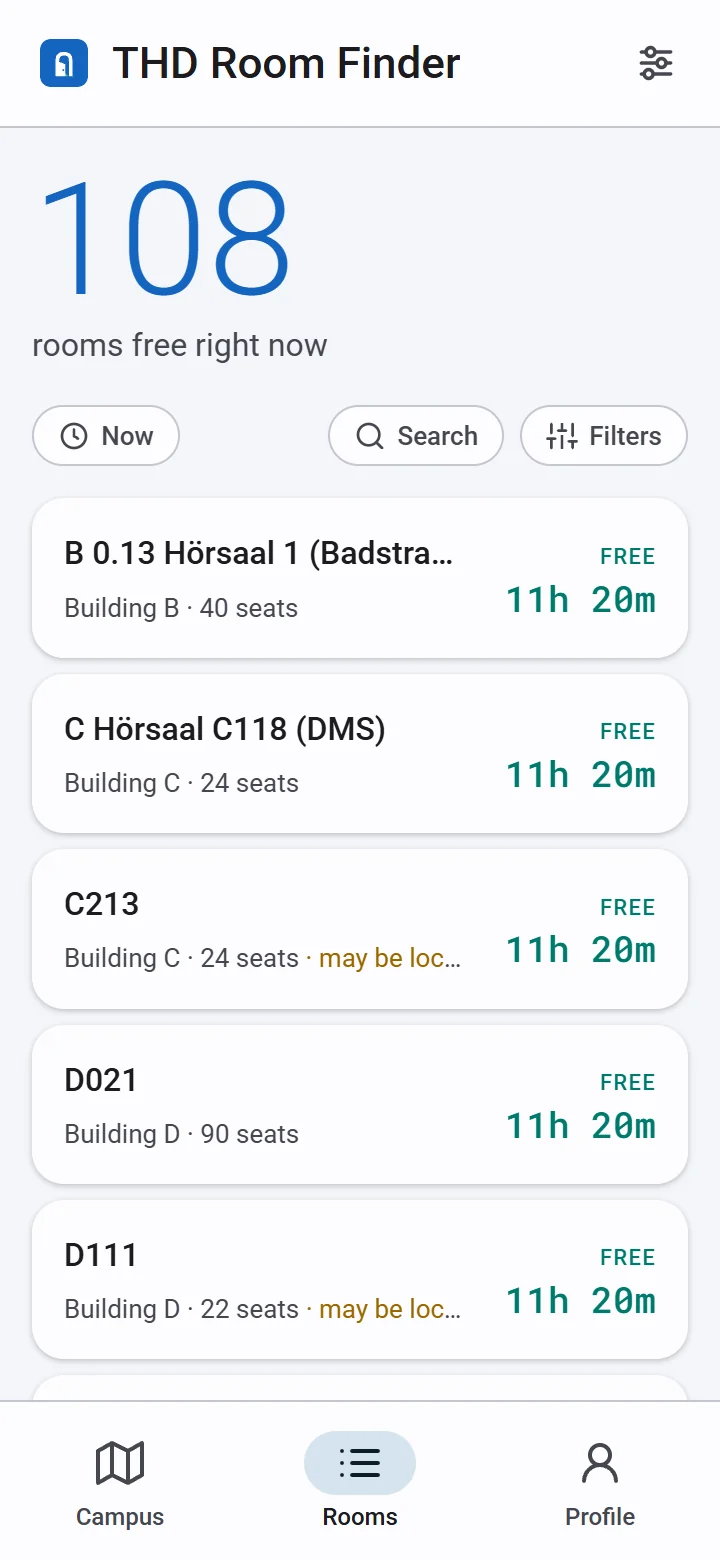
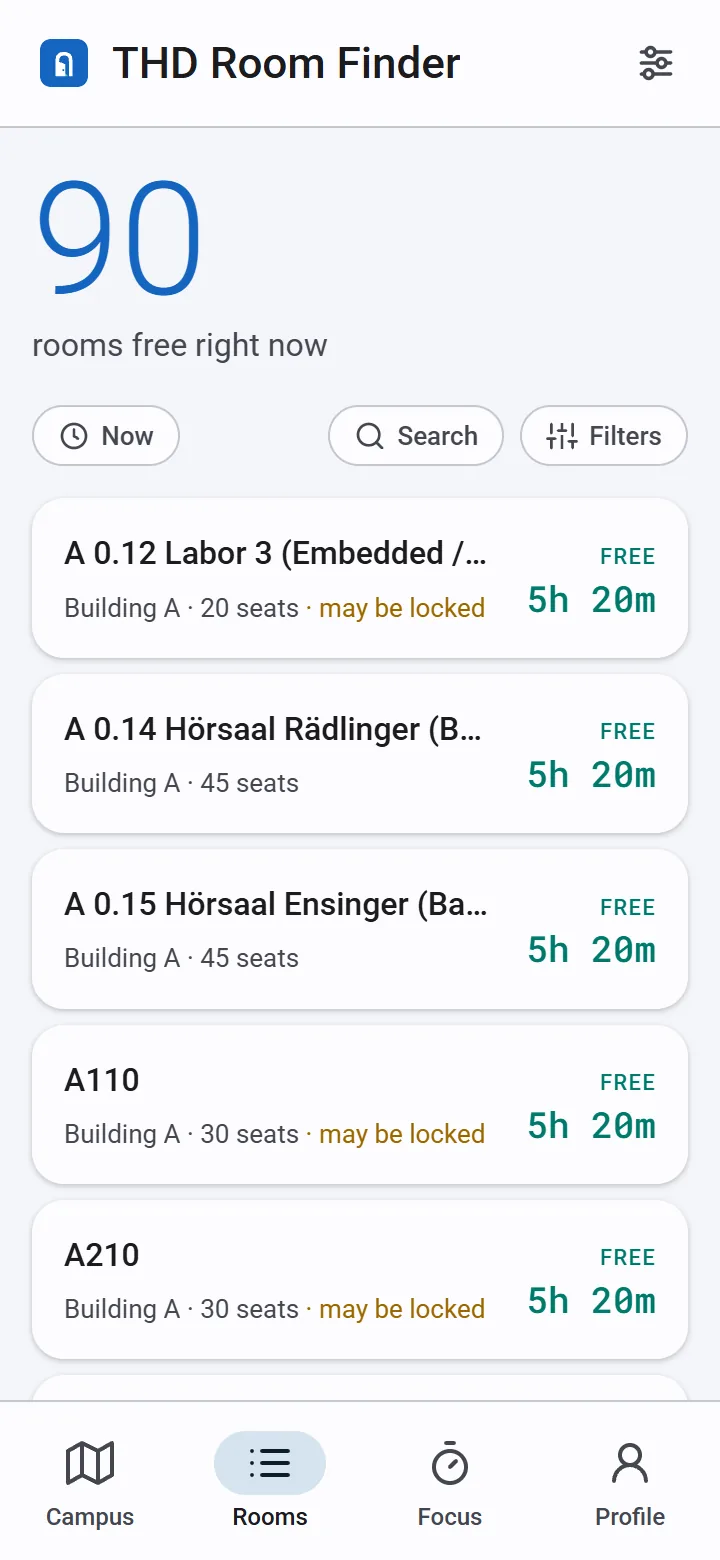
docs(website): recapture app screens with the four-tab bar
- Every phone screen and the desktop map still showed the old Campus,
  Rooms, Profile bar from before v2.6. All 20 are recaptured from the
  current app (light and dark, 360x780 at 2x, desktop 1600x1000) with
  the same story: C211, Max from AIN 7 studying there, Lena's profile,
  the THD AI talk in A008.
- The clock is now a Thursday at 15:40, when C211 is free after its
  last lab; alt texts follow the new numbers.

diff --git a/website/index.html b/website/index.html
@@ -328,7 +328,7 @@
       </div></div>
       <div class="steps" data-steps="guest">
         <div class="step">
-          <div class="phone"><picture><source srcset="assets/guest-rooms-dark.webp" media="(prefers-color-scheme: dark)"><img src="assets/guest-rooms-light.webp" alt="The room list on a phone: 108 rooms free right now, C211 at the top, free for 11 hours 20 minutes" data-de-alt="Die Raumliste auf dem Handy: 108 Räume gerade frei, oben C211, frei für 11 Stunden 20 Minuten" loading="lazy" width="720" height="1560"></picture></div>
+          <div class="phone"><picture><source srcset="assets/guest-rooms-dark.webp" media="(prefers-color-scheme: dark)"><img src="assets/guest-rooms-light.webp" alt="The room list on a phone: 90 rooms free right now, the top ones free for 5 hours 20 minutes" data-de-alt="Die Raumliste auf dem Handy: 90 Räume gerade frei, die obersten frei für 5 Stunden 20 Minuten" loading="lazy" width="720" height="1560"></picture></div>
           <div>
             <span class="num">1</span>
             <h3 data-de="Finde einen Raum">Find a room</h3>
@@ -336,7 +336,7 @@
           </div>
         </div>
         <div class="step">
-          <div class="phone"><picture><source srcset="assets/guest-focus-dark.webp" media="(prefers-color-scheme: dark)"><img src="assets/guest-focus-light.webp" alt="A focus session on this device in C211: 11:58 left in block 1 of 6, and a note that someone else is already studying there" data-de-alt="Eine Fokus-Session auf diesem Gerät in C211: noch 11:58 in Block 1 von 6, dazu der Hinweis, dass dort schon jemand lernt" loading="lazy" width="720" height="1560"></picture></div>
+          <div class="phone"><picture><source srcset="assets/guest-focus-dark.webp" media="(prefers-color-scheme: dark)"><img src="assets/guest-focus-light.webp" alt="A focus session on this device in C211: 11:57 left in block 1 of 6, and a note that someone else is already studying there" data-de-alt="Eine Fokus-Session auf diesem Gerät in C211: noch 11:57 in Block 1 von 6, dazu der Hinweis, dass dort schon jemand lernt" loading="lazy" width="720" height="1560"></picture></div>
           <div>
             <span class="num">2</span>
             <h3 data-de="Starte den Fokus">Start focus</h3>
@@ -370,7 +370,7 @@
           </div>
         </div>
         <div class="step">
-          <div class="phone"><picture><source srcset="assets/profile-profile-dark.webp" media="(prefers-color-scheme: dark)"><img src="assets/profile-profile-light.webp" alt="Lena's profile, AIN 7: a study table tomorrow, 25 hours this semester and 18 study days in a row" data-de-alt="Lenas Profil, AIN 7: ein Lerntisch morgen, 25 Stunden in diesem Semester und 18 Lerntage in Folge" loading="lazy" width="720" height="1560"></picture></div>
+          <div class="phone"><picture><source srcset="assets/profile-profile-dark.webp" media="(prefers-color-scheme: dark)"><img src="assets/profile-profile-light.webp" alt="Lena's profile, AIN 7: a study table tomorrow, 33 hours this semester and 26 study days in a row" data-de-alt="Lenas Profil, AIN 7: ein Lerntisch morgen, 33 Stunden in diesem Semester und 26 Lerntage in Folge" loading="lazy" width="720" height="1560"></picture></div>
           <div>
             <span class="num">3</span>
             <h3 data-de="Dein Semester, überall">Your semester, everywhere</h3>
@@ -477,7 +477,7 @@
   <section id="groups">
     <div class="wrap">
       <div class="split rev">
-        <div class="stack groups-stack"><div class="phone"><picture><source srcset="assets/group-page-dark.webp" media="(prefers-color-scheme: dark)"><img src="assets/group-page-light.webp" alt="The THD AI group page: verified, a short description, its website and a talk coming up on Thursday" data-de-alt="Die Gruppenseite von THD AI: geprüft, eine kurze Beschreibung, die Website und ein Vortrag am Donnerstag" loading="lazy" width="720" height="1560"></picture></div><div class="phone"><picture><source srcset="assets/group-gathering-dark.webp" media="(prefers-color-scheme: dark)"><img src="assets/group-gathering-light.webp" alt="A THD AI talk in A008 on Thursday 18:00: seats fill in a half circle as people reply, with a Going button" data-de-alt="Ein Vortrag von THD AI in A008 am Donnerstag um 18:00: Plätze im Halbkreis füllen sich mit den Antworten, dazu ein Ich-komme-Knopf" loading="lazy" width="720" height="1560"></picture></div></div>
+        <div class="stack groups-stack"><div class="phone"><picture><source srcset="assets/group-page-dark.webp" media="(prefers-color-scheme: dark)"><img src="assets/group-page-light.webp" alt="The THD AI group page: verified, a short description, its website and a talk coming up today" data-de-alt="Die Gruppenseite von THD AI: geprüft, eine kurze Beschreibung, die Website und ein Vortrag heute" loading="lazy" width="720" height="1560"></picture></div><div class="phone"><picture><source srcset="assets/group-gathering-dark.webp" media="(prefers-color-scheme: dark)"><img src="assets/group-gathering-light.webp" alt="A THD AI talk in A008 today at 18:00: seats fill in a half circle as people reply, with a Going button" data-de-alt="Ein Vortrag von THD AI in A008 heute um 18:00: Plätze im Halbkreis füllen sich mit den Antworten, dazu ein Ich-komme-Knopf" loading="lazy" width="720" height="1560"></picture></div></div>
         <div>
           <p class="eyebrow" data-de="Studierendengruppen">Student groups</p>
           <h2 data-de="Eure Gruppe, eure Seite, eure Treffen">Your group, your page, your gatherings</h2>
